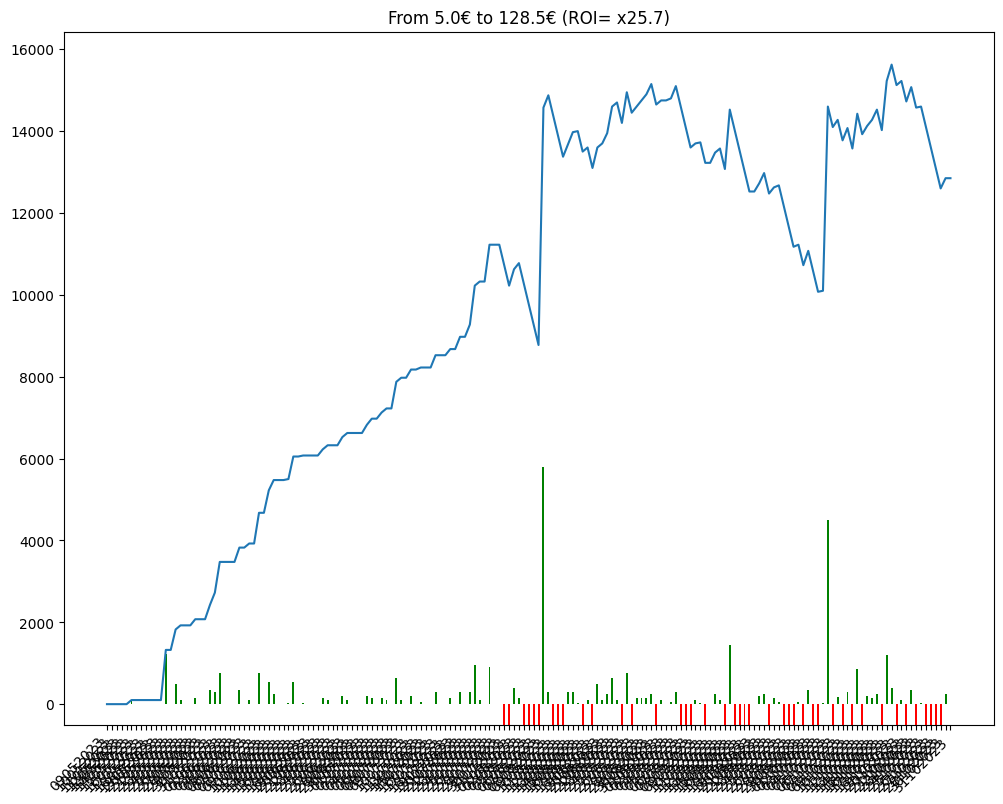
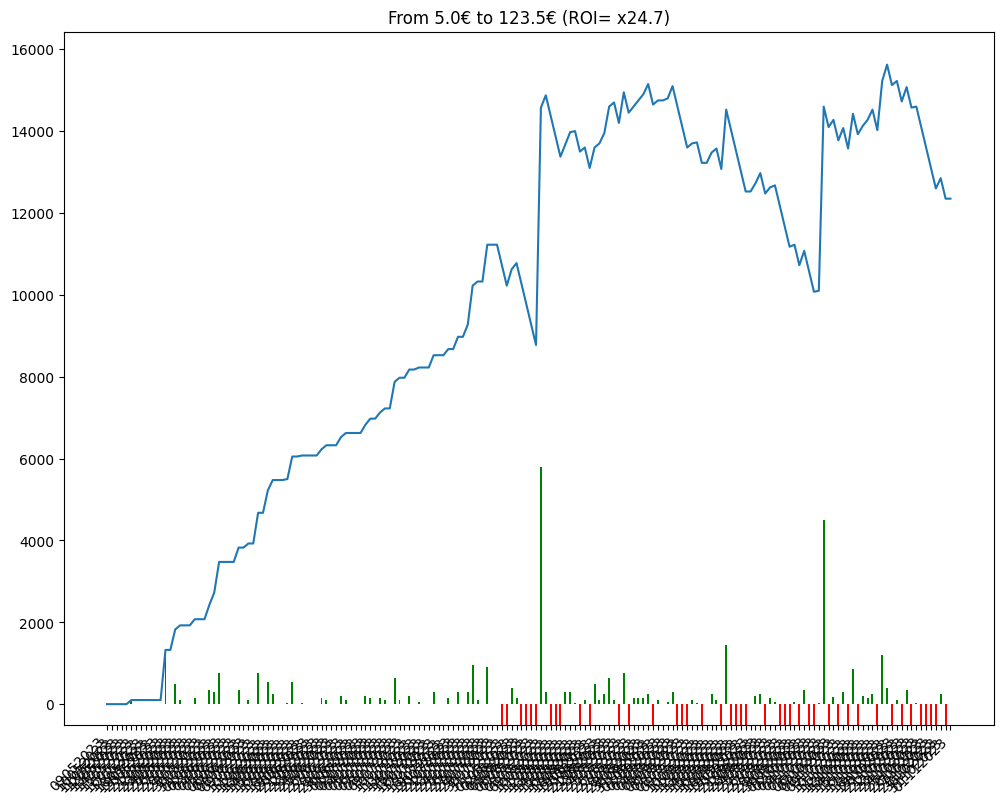
comment from python script

diff --git a/bethistory.html b/bethistory.html
@@ -86,7 +86,8 @@
             En observant la courbe 🤔, on peut avoir une idée visuelle de l'évolution des gains et ainsi évaluer le model utilisé 🧑🏫.
         </p>
         
-        <img src = "/candle.png" alt="candle chart"/><table><tr><td>Chevaux joués</td><td>Gains</td><td>URL Circuits</td></tr><tr><td>10 - BRODURE</td><td>0</td><td><a href=https://www.pmu.fr/turf/31102023/r1/c5 target="_blank">https://www.pmu.fr/turf/31102023/r1/c5</a></td></tr>
+        <img src = "/candle.png" alt="candle chart"/><table><tr><td>Chevaux joués</td><td>Gains</td><td>URL Circuits</td></tr><tr><td>11 - MIGHTY STAR</td><td>0</td><td><a href=https://www.pmu.fr/turf/01112023/r2/c2 target="_blank">https://www.pmu.fr/turf/01112023/r2/c2</a></td></tr>
+<tr><td>10 - BRODURE</td><td>-500</td><td><a href=https://www.pmu.fr/turf/31102023/r1/c5 target="_blank">https://www.pmu.fr/turf/31102023/r1/c5</a></td></tr>
 <tr><td>9 - WITH STARS</td><td>+250</td><td><a href=https://www.pmu.fr/turf/30102023/r1/c2 target="_blank">https://www.pmu.fr/turf/30102023/r1/c2</a></td></tr>
 <tr><td>7 - SWEET SUNDOWNER</td><td>-500</td><td><a href=https://www.pmu.fr/turf/28102023/r2/c3 target="_blank">https://www.pmu.fr/turf/28102023/r2/c3</a></td></tr>
 <tr><td>4 - PICANES</td><td>-500</td><td><a href=https://www.pmu.fr/turf/27102023/r3/c5 target="_blank">https://www.pmu.fr/turf/27102023/r3/c5</a></td></tr>
